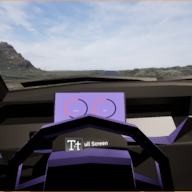
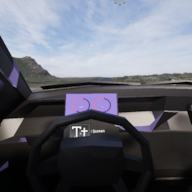
Adds working connection

diff --git a/WebController/server/config.js b/WebController/server/config.js
@@ -4,16 +4,23 @@
 // either a `property` (read/write a value on a Remote Control preset entity)
 // or a `function` (call a Blueprint function exposed on the preset).
 //
-// IMPORTANT: the `id` for property controls MUST match the **Property Label**
-// of the exposed entity inside the Remote Control preset (RCP_Dashboard).
-// That label is what UE sends back in PresetFieldsChanged events, and it's
-// what the bridge uses to look up which preset entity to PUT to.
+// `id` is the stable web-side key (used in the UI and by the browser <-> bridge
+// protocol). `ueId` (optional) is the actual address used when talking to UE:
+// either the GUID of the exposed entry or its `DisplayName`. If `ueId` is
+// omitted, `id` is used as the address.
 //
-// To add controls:
-//   1. In UE, open the preset (Content/RemoteControl/RCP_Dashboard) and expose
-//      the property/function from WBP_MainDashboard or MPC_Global.
-//   2. Note the auto-generated label (or rename it to something tidy).
-//   3. Add an entry below with that label as the `id`.
+// Why GUIDs? When you expose entries in an MPC, UE auto-names every scalar
+// "Scalar Parameters" and every vector "Vector Parameters" / "...(1)..." etc.
+// Renaming in the editor's Property ID column is purely cosmetic — the HTTP
+// API only resolves entries by their auto-name or unique GUID. GUIDs are
+// unambiguous, so we use them here.
+//
+// Find the GUIDs with:
+//   curl -s http://127.0.0.1:30010/remote/preset/RCP_Dashboard \
+//     | python3 -c "import json,sys
+// for g in json.load(sys.stdin)['Preset']['Groups']:
+//     for p in g['ExposedProperties']:
+//         print(p['ID'], p['DisplayName'], p['UnderlyingProperty']['Name'])"
 
 export const config = {
   // Bind address for the bridge HTTP/WS server. 0.0.0.0 = reachable on LAN.
@@ -38,30 +45,35 @@ export const config = {
   //
   // Entry shape:
   //   {
-  //     id:          <Property Label exactly as it appears in the preset>
-  //     label:       <Friendly text shown in the web UI>
+  //     id:          stable web-side key (used in URLs, UI, protocol)
+  //     ueId:        UE address — GUID of the exposed entry (preferred) OR
+  //                  its DisplayName. Omit to fall back to `id`.
+  //     label:       friendly text shown in the web UI
   //     category:    'Gauges' | 'Lights' | 'Theme' | 'Functions' | ...
   //     kind:        'number' | 'bool' | 'color' | 'function'
   //     min, max, step  (number kind only)
   //     args         (function kind only, optional default args object)
   //   }
-  // These ids match the parameter names in MPC_Global. When you expose each
-  // MPC parameter in RCP_Dashboard, UE auto-labels the entry with the
-  // parameter's name — so as long as you don't rename in the preset, these
-  // ids will line up.
   controls: [
     // Gauges (scalar)
-    { id: 'CurrentSpeed', label: 'Speed', category: 'Gauges', kind: 'number', min: 0, max: 1, step: 0.01 },
+    { id: 'CurrentSpeed', ueFunction: 'Set Speed', ueArg: 'Value',
+      label: 'Speed', category: 'Gauges', kind: 'number', min: 0, max: 1, step: 0.01 },
 
     // Theme palette (vector / LinearColor)
-    { id: 'ThemeColourPrimary',    label: 'Primary',    category: 'Theme', kind: 'color' },
-    { id: 'ThemeColourSecondary',  label: 'Secondary',  category: 'Theme', kind: 'color' },
-    { id: 'ThemeColourTertiary',   label: 'Tertiary',   category: 'Theme', kind: 'color' },
-    { id: 'ThemeColourQuaternary', label: 'Quaternary', category: 'Theme', kind: 'color' },
+    { id: 'ThemeColourPrimary',    ueFunction: 'Set Theme Primary',    ueArg: 'Value',
+      label: 'Primary',    category: 'Theme', kind: 'color' },
+    { id: 'ThemeColourSecondary',  ueFunction: 'Set Theme Secondary',  ueArg: 'Value',
+      label: 'Secondary',  category: 'Theme', kind: 'color' },
+    { id: 'ThemeColourTertiary',   ueFunction: 'Set Theme Tertiary',   ueArg: 'Value',
+      label: 'Tertiary',   category: 'Theme', kind: 'color' },
+    { id: 'ThemeColourQuaternary', ueFunction: 'Set Theme Quaternary', ueArg: 'Value',
+      label: 'Quaternary', category: 'Theme', kind: 'color' },
 
     // Text colours
-    { id: 'TextColourPrimary',   label: 'Text primary',   category: 'Text', kind: 'color' },
-    { id: 'TextColourSecondary', label: 'Text secondary', category: 'Text', kind: 'color' },
+    { id: 'TextColourPrimary',   ueFunction: 'Set Text Primary',   ueArg: 'Value',
+      label: 'Text primary',   category: 'Text', kind: 'color' },
+    { id: 'TextColourSecondary', ueFunction: 'Set Text Secondary', ueArg: 'Value',
+      label: 'Text secondary', category: 'Text', kind: 'color' },
 
     // --- Add WBP_MainDashboard properties/functions below as you expose them ---
     // { id: 'Headlights',    label: 'Headlights',    category: 'Lights',    kind: 'bool' },

diff --git a/WebController/server/ueClient.js b/WebController/server/ueClient.js
@@ -17,8 +17,10 @@ const RECONNECT_MIN_MS = 1000;
 const RECONNECT_MAX_MS = 10000;
 
 export class UeClient extends EventEmitter {
-  constructor({ host, port, presetName }) {
+  constructor({ host, port, presetName, httpPort }) {
     super();
+    this.host = host;
+    this.httpPort = httpPort;
     this.url = `ws://${host}:${port}`;
     this.presetName = presetName;
     this.ws = null;
@@ -99,6 +101,12 @@ export class UeClient extends EventEmitter {
       return;
     }
 
+    // Log http.response so we can see if function calls succeeded.
+    if (type === 'http.response' || msg.ResponseCode !== undefined) {
+      log('http.response', msg.ResponseCode, typeof msg.ResponseBody === 'string' ? msg.ResponseBody.slice(0,200) : JSON.stringify(msg.ResponseBody || '').slice(0,200));
+      return;
+    }
+
     // Some UE versions emit a flatter shape on the WS subscription channel.
     // We pass anything unknown through as a debug event so issues are easy
     // to diagnose without re-deploying.
@@ -121,17 +129,22 @@ export class UeClient extends EventEmitter {
   }
 
   /** Call an exposed function by Remote Control preset Property Label. */
-  callFunction(propertyLabel, args = {}) {
-    const id = this.requestId++;
-    return this._send({
-      MessageName: 'http.request',
-      Id: id,
-      Parameters: {
-        Url: `/remote/preset/${encodeURIComponent(this.presetName)}/function/${encodeURIComponent(propertyLabel)}`,
-        Verb: 'PUT',
-        Body: { Parameters: args, GenerateTransaction: true },
-      },
-    });
+  async callFunction(propertyLabel, args = {}) {
+    const url = `http://${this.host}:${this.httpPort}/remote/preset/${encodeURIComponent(this.presetName)}/function/${encodeURIComponent(propertyLabel)}`;
+    log('callFunction', propertyLabel, JSON.stringify(args));
+    try {
+      const res = await fetch(url, {
+        method: 'PUT',
+        headers: { 'Content-Type': 'application/json' },
+        body: JSON.stringify({ Parameters: args, GenerateTransaction: true }),
+      });
+      const text = await res.text();
+      log('callFunction response', res.status, text.slice(0, 200));
+      return res.ok;
+    } catch (err) {
+      log('callFunction error', err.message);
+      return false;
+    }
   }
 
   /** Snapshot of last-known values, suitable for hydrating new clients. */

diff --git a/WebController/server/index.js b/WebController/server/index.js
@@ -42,6 +42,7 @@ const wss = new WebSocketServer({ server });
 const ue = new UeClient({
   host: config.ueHost,
   port: config.ueWsPort,
+  httpPort: config.ueHttpPort,
   presetName: config.presetName,
 });
 
@@ -57,7 +58,16 @@ ue.on('status', ({ connected }) => {
 });
 
 ue.on('fieldChanged', ({ propertyLabel, value }) => {
-  broadcast({ type: 'update', id: propertyLabel, value });
+  // UE addresses entries by their auto-generated DisplayName (e.g.
+  // "Vector Parameters (1)"), which collides across MPC array entries.
+  // Map back to a stable web-side `id` if we can; otherwise drop the event
+  // (the originating browser already updated optimistically, and the bridge
+  // echoes to other clients on the way in).
+  const ctrl = config.controls.find(
+    (c) => c.ueId === propertyLabel || c.id === propertyLabel,
+  );
+  if (!ctrl) return;
+  broadcast({ type: 'update', id: ctrl.id, value });
 });
 
 ue.on('debug', (msg) => {
@@ -89,9 +99,18 @@ wss.on('connection', (socket, req) => {
       console.warn('[bridge] unknown control id:', msg.id);
       return;
     }
+    console.log('[bridge] in:', msg.type, msg.id, '=>', JSON.stringify(msg.value ?? msg.args));
 
     if (msg.type === 'set' && ctrl.kind !== 'function') {
-      ue.setProperty(ctrl.id, msg.value);
+      if (ctrl.ueFunction) {
+        // Property-style UI (slider, color picker) but routed through an
+        // exposed Blueprint function. The function's input pin name is
+        // `ctrl.ueArg` (default 'Value').
+        const argName = ctrl.ueArg || 'Value';
+        ue.callFunction(ctrl.ueFunction, { [argName]: msg.value });
+      } else {
+        ue.setProperty(ctrl.ueId || ctrl.id, msg.value);
+      }
       // Echo to *other* clients so multiple browsers stay in sync without
       // waiting for UE's PresetFieldsChanged round-trip.
       const data = JSON.stringify({ type: 'update', id: ctrl.id, value: msg.value });
@@ -99,7 +118,7 @@ wss.on('connection', (socket, req) => {
         if (c !== socket && c.readyState === 1) c.send(data);
       }
     } else if (msg.type === 'call' && ctrl.kind === 'function') {
-      ue.callFunction(ctrl.id, msg.args || ctrl.args || {});
+      ue.callFunction(ctrl.ueFunction || ctrl.ueId || ctrl.id, msg.args || ctrl.args || {});
     }
   });
 